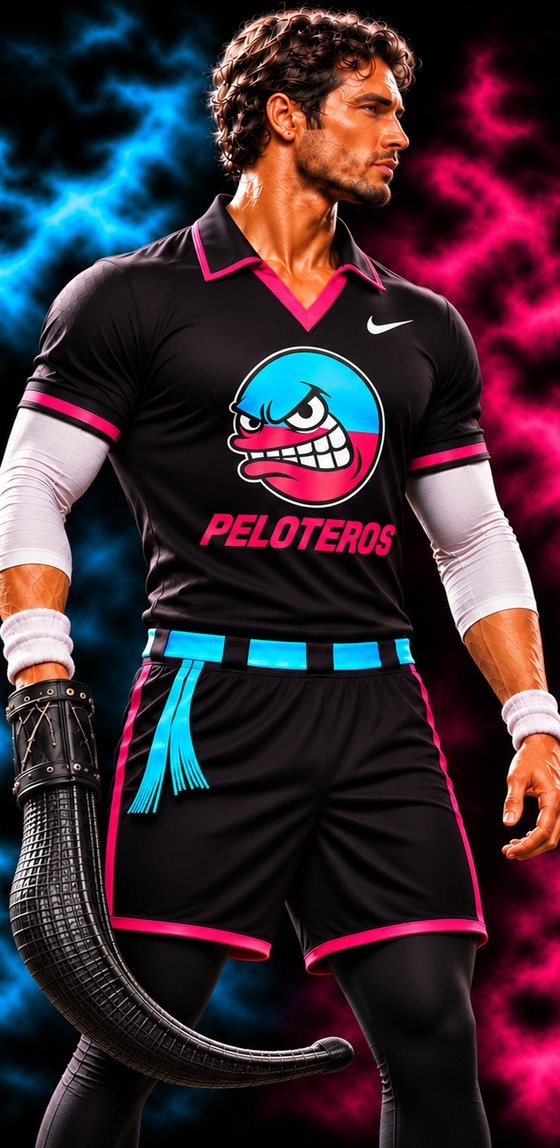
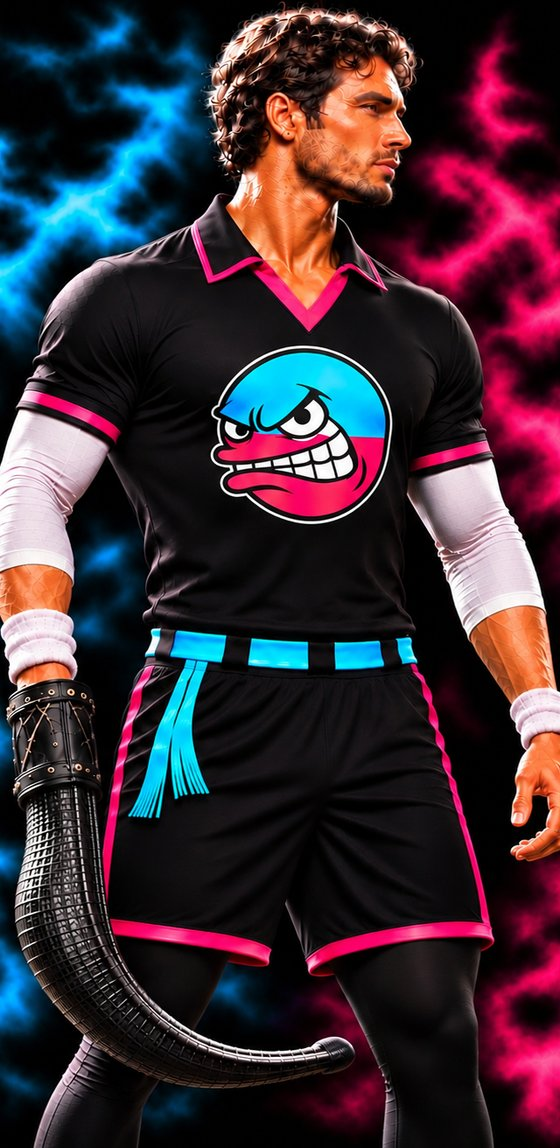
Matchup poster: new Peloteros man (no wordmark or swoosh)
Claude-Session: https://claude.ai/code/session_01RXYkimbn35SjoihCfai7fS

diff --git a/index.html b/index.html
@@ -1997,7 +1997,7 @@ if (typeof module !== 'undefined') module.exports = Core;
   /* ---------- matchup poster (preview build only): a still court, a Tap to Play button, then the poster while the match loads ---------- */
   var POSTER = !!window.FL_POSTER;
   if (POSTER) document.body.classList.add('poster-on');
-  var POSTERS = { '0m': 'poster-0-m.jpg?v=5', '1m': 'poster-1-m.jpg?v=5', '2m': 'poster-2-m.jpg?v=5', '3m': 'poster-3-m.jpg?v=5', '4m': 'poster-4-m.jpg?v=5', '5m': 'poster-5-m.jpg?v=5', '0w': 'poster-0-w.jpg?v=1', '1w': 'poster-1-w.jpg?v=1', '2w': 'poster-2-w.jpg?v=1', '3w': 'poster-3-w.jpg?v=1', '4w': 'poster-4-w.jpg?v=1', '5w': 'poster-5-w.jpg?v=1', '6m': 'poster-6-m.jpg?v=1', '6w': 'poster-6-w.jpg?v=1' };   // roster index + m/w. Each half faces right; missing ones fall back to the team badge
+  var POSTERS = { '0m': 'poster-0-m.jpg?v=5', '1m': 'poster-1-m.jpg?v=6', '2m': 'poster-2-m.jpg?v=5', '3m': 'poster-3-m.jpg?v=5', '4m': 'poster-4-m.jpg?v=5', '5m': 'poster-5-m.jpg?v=5', '0w': 'poster-0-w.jpg?v=1', '1w': 'poster-1-w.jpg?v=1', '2w': 'poster-2-w.jpg?v=1', '3w': 'poster-3-w.jpg?v=1', '4w': 'poster-4-w.jpg?v=1', '5w': 'poster-5-w.jpg?v=1', '6m': 'poster-6-m.jpg?v=1', '6w': 'poster-6-w.jpg?v=1' };   // roster index + m/w. Each half faces right; missing ones fall back to the team badge
   function posterHalf(el, t, side) {                              // mixed: a man on the left, a woman on the right
     var r = ROSTER[t], wt = whoOf(side), g = wt === 'women' || (wt === 'mixed' && side) ? 'w' : 'm', src = POSTERS[t + g] || null;   // no picture for that side yet: its badge or flag
     el.innerHTML = ''; el.style.backgroundImage = '';

diff --git a/original/index.html b/original/index.html
@@ -1994,7 +1994,7 @@ if (typeof module !== 'undefined') module.exports = Core;
   /* ---------- matchup poster (preview build only): a still court, a Tap to Play button, then the poster while the match loads ---------- */
   var POSTER = !!window.FL_POSTER;
   if (POSTER) document.body.classList.add('poster-on');
-  var POSTERS = { '0m': 'poster-0-m.jpg?v=5', '1m': 'poster-1-m.jpg?v=5', '2m': 'poster-2-m.jpg?v=5', '3m': 'poster-3-m.jpg?v=5', '4m': 'poster-4-m.jpg?v=5', '5m': 'poster-5-m.jpg?v=5', '0w': 'poster-0-w.jpg?v=1', '1w': 'poster-1-w.jpg?v=1', '2w': 'poster-2-w.jpg?v=1', '3w': 'poster-3-w.jpg?v=1', '4w': 'poster-4-w.jpg?v=1', '5w': 'poster-5-w.jpg?v=1', '6m': 'poster-6-m.jpg?v=1', '6w': 'poster-6-w.jpg?v=1' };   // roster index + m/w. Each half faces right; missing ones fall back to the team badge
+  var POSTERS = { '0m': 'poster-0-m.jpg?v=5', '1m': 'poster-1-m.jpg?v=6', '2m': 'poster-2-m.jpg?v=5', '3m': 'poster-3-m.jpg?v=5', '4m': 'poster-4-m.jpg?v=5', '5m': 'poster-5-m.jpg?v=5', '0w': 'poster-0-w.jpg?v=1', '1w': 'poster-1-w.jpg?v=1', '2w': 'poster-2-w.jpg?v=1', '3w': 'poster-3-w.jpg?v=1', '4w': 'poster-4-w.jpg?v=1', '5w': 'poster-5-w.jpg?v=1', '6m': 'poster-6-m.jpg?v=1', '6w': 'poster-6-w.jpg?v=1' };   // roster index + m/w. Each half faces right; missing ones fall back to the team badge
   function posterHalf(el, t, side) {                              // mixed: a man on the left, a woman on the right
     var r = ROSTER[t], wt = whoOf(side), g = wt === 'women' || (wt === 'mixed' && side) ? 'w' : 'm', src = POSTERS[t + g] || null;   // no picture for that side yet: its badge or flag
     el.innerHTML = ''; el.style.backgroundImage = '';
